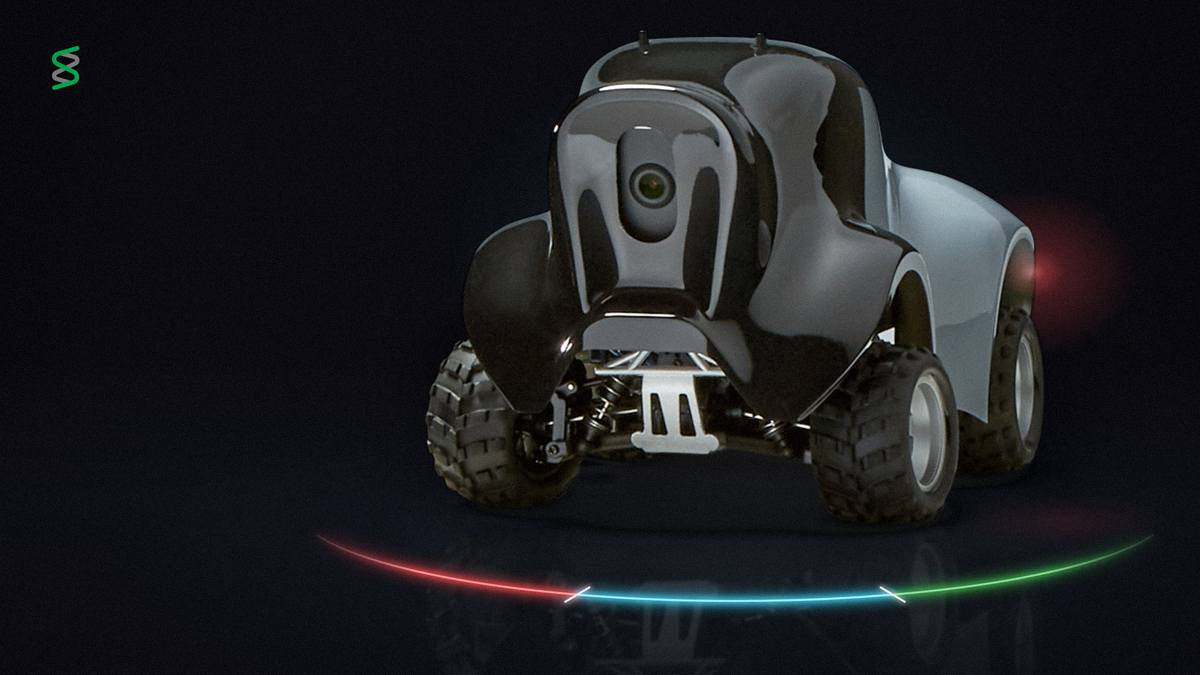
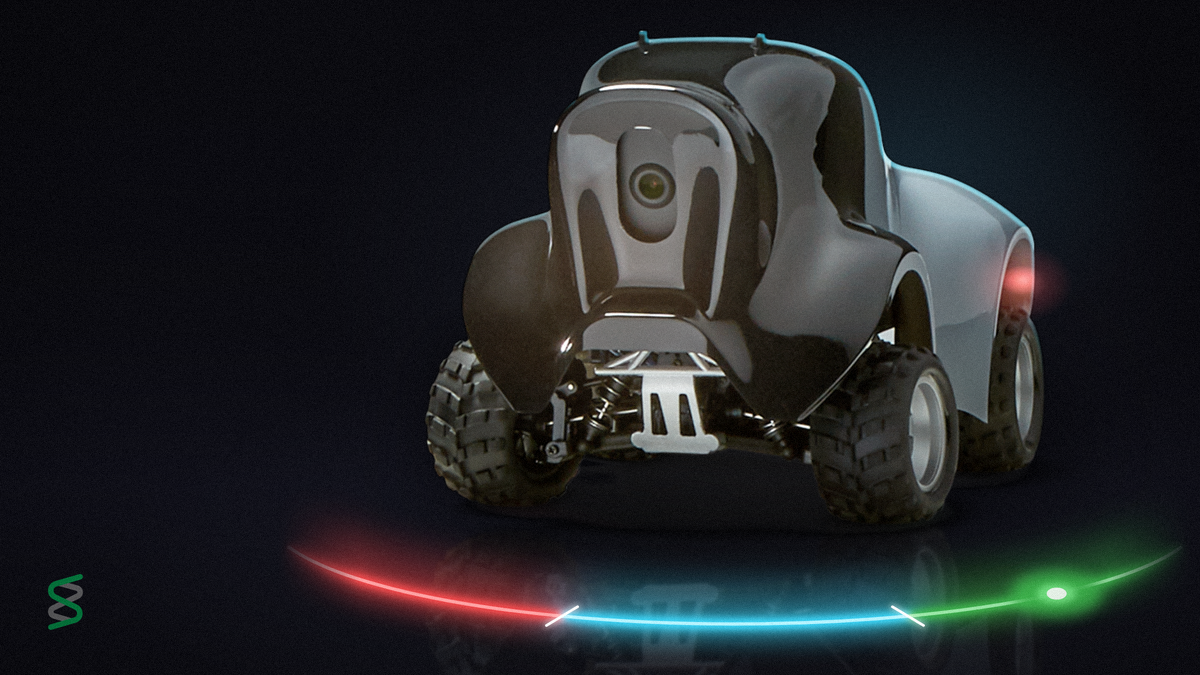
docs(article): Judged cover

diff --git a/docs/article/img/svg/cover-candidates/cover-A2.html b/docs/article/img/svg/cover-candidates/cover-A2.html
@@ -1,0 +1,80 @@
+<!doctype html><html><head><meta charset="utf-8"><title>Cover A2 Judged</title><style>
+/* Cover candidate A, second pass, "Judged". Generated by gen_A2.py; edit there. */
+html,body{margin:0;background:#0b0b10}
+.c{position:relative;width:1200px;height:675px;overflow:hidden;background:#0b0b10}
+.abs{position:absolute}
+.full{left:0;top:0;width:1200px;height:675px}
+/* atmosphere: a soft haze behind the car so the dark is not flat */
+.haze{background:
+  radial-gradient(620px 360px at 760px 250px,rgba(120,150,190,.10),transparent 72%),
+  radial-gradient(380px 260px at 900px 170px,rgba(61,220,255,.09),transparent 70%),
+  radial-gradient(900px 300px at 735px 560px,rgba(110,130,160,.07),transparent 70%),
+  linear-gradient(180deg,#0b0b10 0%,#0c0c12 48%,#101019 72%,#0d0d13 100%)}
+.car,.refl,.shadow,.rim,.key,.under,.lamp{left:313px;top:28px;width:839px;height:585.1px}
+.refl{transform-origin:50% 490.6px;transform:scaleY(-1);opacity:.42;filter:blur(1.4px);
+  -webkit-mask-image:linear-gradient(180deg,transparent 0%,transparent 45%,rgba(0,0,0,.6) 74%,#000 90%)}
+/* light layers clipped to the car's own silhouette */
+.key,.under,.lamp{-webkit-mask-image:url(car-cut.png);-webkit-mask-size:100% 100%;mix-blend-mode:screen}
+.key{background:radial-gradient(330px 260px at 300px 230px,rgba(255,190,140,.22),transparent 75%)}
+.under{background:
+  radial-gradient(200px 120px at 210px 560px,rgba(255,77,79,.20),transparent 75%),
+  radial-gradient(260px 120px at 450px 600px,rgba(61,220,255,.14),transparent 75%),
+  radial-gradient(220px 130px at 690px 560px,rgba(63,185,80,.20),transparent 75%)}
+/* tail light: the lamp sits on the rear corner of the body, its bloom grows from there */
+.lamp{background:radial-gradient(24px 15px at 710px 252px,rgba(255,120,120,1),rgba(255,77,79,.85) 40%,rgba(255,77,79,.0) 100%),
+  radial-gradient(90px 70px at 712px 255px,rgba(255,77,79,.35),transparent 80%)}
+.bloom{left:977px;top:245px;width:96px;height:76px;border-radius:50%;
+  background:radial-gradient(closest-side,rgba(255,110,110,.55),rgba(255,77,79,.20) 45%,transparent 100%);mix-blend-mode:screen}
+.rim{opacity:.7;mix-blend-mode:screen}
+svg{position:absolute;left:0;top:0}
+.mark{left:48px;top:574px;height:56px;opacity:.6}
+</style></head><body><div class="c">
+<div class="abs full haze"></div>
+<img class="abs refl" src="car-cut.png">
+<!-- the probability scale, projected on the floor in front of the car: red 0..0.35, cyan 0.35..0.65, green 0.65..1 -->
+<svg width="1200" height="675" viewBox="0 0 1200 675">
+ <defs>
+  <filter id="spillW" x="-30%" y="-100%" width="160%" height="300%"><feGaussianBlur stdDeviation="30 12"/></filter>
+  <filter id="spill" x="-30%" y="-100%" width="160%" height="300%"><feGaussianBlur stdDeviation="12 5"/></filter>
+  <filter id="glow" x="-20%" y="-60%" width="140%" height="220%"><feGaussianBlur stdDeviation="3.2"/></filter>
+  <filter id="dot" x="-200%" y="-200%" width="500%" height="500%"><feGaussianBlur stdDeviation="7"/></filter>
+  <linearGradient id="fade" x1="278" x2="1192" gradientUnits="userSpaceOnUse"><stop offset="0" stop-color="#fff" stop-opacity="0"/><stop offset=".09" stop-color="#fff"/><stop offset=".91" stop-color="#fff"/><stop offset="1" stop-color="#fff" stop-opacity="0"/></linearGradient>
+  <mask id="m" maskUnits="userSpaceOnUse" x="0" y="0" width="1200" height="675"><rect width="1200" height="675" fill="url(#fade)"/></mask>
+ </defs>
+ <g mask="url(#m)" fill="none">
+  <g filter="url(#spillW)" opacity=".55"><path d="M288.0 546.6 A470.0 112.0 0 0 0 562.0 616.1" stroke="#ff4d4f" stroke-width="34"/>
+<path d="M562.0 616.1 A470.0 112.0 0 0 0 908.0 616.1" stroke="#3ddcff" stroke-width="34"/>
+<path d="M908.0 616.1 A470.0 112.0 0 0 0 1182.0 546.6" stroke="#3fb950" stroke-width="34"/></g>
+  <!-- spill reaching back into the car's reflection -->
+  <g filter="url(#spillW)" opacity=".22" transform="translate(0 -30)"><path d="M288.0 546.6 A470.0 112.0 0 0 0 562.0 616.1" stroke="#ff4d4f" stroke-width="40"/>
+<path d="M562.0 616.1 A470.0 112.0 0 0 0 908.0 616.1" stroke="#3ddcff" stroke-width="40"/>
+<path d="M908.0 616.1 A470.0 112.0 0 0 0 1182.0 546.6" stroke="#3fb950" stroke-width="40"/></g>
+  <g filter="url(#spill)" opacity=".75"><path d="M288.0 546.6 A470.0 112.0 0 0 0 562.0 616.1" stroke="#ff4d4f" stroke-width="12"/>
+<path d="M562.0 616.1 A470.0 112.0 0 0 0 908.0 616.1" stroke="#3ddcff" stroke-width="12"/>
+<path d="M908.0 616.1 A470.0 112.0 0 0 0 1182.0 546.6" stroke="#3fb950" stroke-width="12"/></g>
+  <g filter="url(#glow)"><path d="M288.0 546.6 A470.0 112.0 0 0 0 562.0 616.1" stroke="#ff4d4f" stroke-width="7"/>
+<path d="M562.0 616.1 A470.0 112.0 0 0 0 908.0 616.1" stroke="#3ddcff" stroke-width="7"/>
+<path d="M908.0 616.1 A470.0 112.0 0 0 0 1182.0 546.6" stroke="#3fb950" stroke-width="7"/></g>
+  <g><path d="M288.0 546.6 A470.0 112.0 0 0 0 562.0 616.1" stroke="#ffa3a4" stroke-width="3.2"/>
+<path d="M562.0 616.1 A470.0 112.0 0 0 0 908.0 616.1" stroke="#b4f3ff" stroke-width="3.2"/>
+<path d="M908.0 616.1 A470.0 112.0 0 0 0 1182.0 546.6" stroke="#9be8a8" stroke-width="3.2"/></g>
+ </g>
+ <!-- the two thresholds, crisp, foreshortened on the floor -->
+ <g stroke="#ffffff" stroke-linecap="round" fill="none">
+  <g filter="url(#glow)" stroke-width="5" opacity=".55"><path d="M577.6 606.8 L546.4 625.5"/><path d="M892.4 606.8 L923.6 625.5"/></g>
+  <g stroke-width="2.6"><path d="M577.6 606.8 L546.4 625.5"/><path d="M892.4 606.8 L923.6 625.5"/></g>
+ </g>
+ <!-- the judged move: one marker of light in the green zone -->
+ <ellipse cx="1056.7" cy="593.6" rx="46" ry="22" fill="#3fb950" opacity=".9" filter="url(#dot)"/>
+ <ellipse cx="1056.7" cy="593.6" rx="20" ry="10" fill="#7ff08f" opacity=".8" filter="url(#glow)"/>
+ <ellipse cx="1056.7" cy="593.6" rx="10" ry="6" fill="#f2fff4"/>
+</svg>
+<img class="abs shadow" src="car-shadow.png" style="opacity:.9">
+<img class="abs car" src="car-cut.png">
+<div class="abs key"></div>
+<div class="abs under"></div>
+<img class="abs rim" src="car-rim.png">
+<div class="abs lamp"></div>
+<div class="abs bloom"></div>
+<img class="abs mark" src="strands-mark.svg">
+</div></body></html>

diff --git a/docs/article/img/svg/cover-candidates/gen_A2.py b/docs/article/img/svg/cover-candidates/gen_A2.py
@@ -1,0 +1,95 @@
+"""Generate cover-A2.html (candidate A, second pass). Edit the numbers here, then render A2."""
+import math, pathlib
+CX, CY, RX, RY = 735, 512, 470, 112          # floor ellipse of the scale
+A0, A1 = 162.0, 18.0                          # visible arc, left end to right end (degrees)
+MARK_P = 0.80                                 # marker position on the scale (green zone)
+CAR = dict(left=313, top=28, w=839)           # render scale 0.9
+
+def ang(p): return A0 - (A0 - A1) * p
+def pt(a, k=1.0):
+    t = math.radians(a); return CX + k * RX * math.cos(t), CY + k * RY * math.sin(t)
+def arc(p0, p1, k=1.0):
+    (x0, y0), (x1, y1) = pt(ang(p0), k), pt(ang(p1), k)
+    return f"M{x0:.1f} {y0:.1f} A{RX*k:.1f} {RY*k:.1f} 0 0 0 {x1:.1f} {y1:.1f}"
+segs = [(0, .35, "#ff4d4f", "#ffa3a4"), (.35, .65, "#3ddcff", "#b4f3ff"), (.65, 1, "#3fb950", "#9be8a8")]
+def layer(width, colour_idx, extra=""):
+    return "\n".join(f'<path d="{arc(a, b)}" stroke="{s[colour_idx]}" stroke-width="{width}"{extra}/>' for s in segs for a, b in [s[:2]])
+ticks = []
+for p in (.35, .65):
+    (x0, y0), (x1, y1) = pt(ang(p), .91), pt(ang(p), 1.09)
+    ticks.append(f"M{x0:.1f} {y0:.1f} L{x1:.1f} {y1:.1f}")
+mx, my = pt(ang(MARK_P))
+L, T, W = CAR["left"], CAR["top"], CAR["w"]
+x_left, x_right = pt(A0)[0], pt(A1)[0]
+
+html = f'''<!doctype html><html><head><meta charset="utf-8"><title>Cover A2 Judged</title><style>
+/* Cover candidate A, second pass, "Judged". Generated by gen_A2.py; edit there. */
+html,body{{margin:0;background:#0b0b10}}
+.c{{position:relative;width:1200px;height:675px;overflow:hidden;background:#0b0b10}}
+.abs{{position:absolute}}
+.full{{left:0;top:0;width:1200px;height:675px}}
+/* atmosphere: a soft haze behind the car so the dark is not flat */
+.haze{{background:
+  radial-gradient(620px 360px at 760px 250px,rgba(120,150,190,.10),transparent 72%),
+  radial-gradient(380px 260px at 900px 170px,rgba(61,220,255,.09),transparent 70%),
+  radial-gradient(900px 300px at 735px 560px,rgba(110,130,160,.07),transparent 70%),
+  linear-gradient(180deg,#0b0b10 0%,#0c0c12 48%,#101019 72%,#0d0d13 100%)}}
+.car,.refl,.shadow,.rim,.key,.under,.lamp{{left:{L}px;top:{T}px;width:{W}px;height:{W*650/932:.1f}px}}
+.refl{{transform-origin:50% {545*W/932:.1f}px;transform:scaleY(-1);opacity:.42;filter:blur(1.4px);
+  -webkit-mask-image:linear-gradient(180deg,transparent 0%,transparent 45%,rgba(0,0,0,.6) 74%,#000 90%)}}
+/* light layers clipped to the car's own silhouette */
+.key,.under,.lamp{{-webkit-mask-image:url(car-cut.png);-webkit-mask-size:100% 100%;mix-blend-mode:screen}}
+.key{{background:radial-gradient(330px 260px at 300px 230px,rgba(255,190,140,.22),transparent 75%)}}
+.under{{background:
+  radial-gradient(200px 120px at 210px 560px,rgba(255,77,79,.20),transparent 75%),
+  radial-gradient(260px 120px at 450px 600px,rgba(61,220,255,.14),transparent 75%),
+  radial-gradient(220px 130px at 690px 560px,rgba(63,185,80,.20),transparent 75%)}}
+/* tail light: the lamp sits on the rear corner of the body, its bloom grows from there */
+.lamp{{background:radial-gradient(24px 15px at 710px 252px,rgba(255,120,120,1),rgba(255,77,79,.85) 40%,rgba(255,77,79,.0) 100%),
+  radial-gradient(90px 70px at 712px 255px,rgba(255,77,79,.35),transparent 80%)}}
+.bloom{{left:{L+712*W/839-48:.0f}px;top:{T+255*W/839-38:.0f}px;width:96px;height:76px;border-radius:50%;
+  background:radial-gradient(closest-side,rgba(255,110,110,.55),rgba(255,77,79,.20) 45%,transparent 100%);mix-blend-mode:screen}}
+.rim{{opacity:.7;mix-blend-mode:screen}}
+svg{{position:absolute;left:0;top:0}}
+.mark{{left:48px;top:574px;height:56px;opacity:.6}}
+</style></head><body><div class="c">
+<div class="abs full haze"></div>
+<img class="abs refl" src="car-cut.png">
+<!-- the probability scale, projected on the floor in front of the car: red 0..0.35, cyan 0.35..0.65, green 0.65..1 -->
+<svg width="1200" height="675" viewBox="0 0 1200 675">
+ <defs>
+  <filter id="spillW" x="-30%" y="-100%" width="160%" height="300%"><feGaussianBlur stdDeviation="30 12"/></filter>
+  <filter id="spill" x="-30%" y="-100%" width="160%" height="300%"><feGaussianBlur stdDeviation="12 5"/></filter>
+  <filter id="glow" x="-20%" y="-60%" width="140%" height="220%"><feGaussianBlur stdDeviation="3.2"/></filter>
+  <filter id="dot" x="-200%" y="-200%" width="500%" height="500%"><feGaussianBlur stdDeviation="7"/></filter>
+  <linearGradient id="fade" x1="{x_left-10:.0f}" x2="{x_right+10:.0f}" gradientUnits="userSpaceOnUse"><stop offset="0" stop-color="#fff" stop-opacity="0"/><stop offset=".09" stop-color="#fff"/><stop offset=".91" stop-color="#fff"/><stop offset="1" stop-color="#fff" stop-opacity="0"/></linearGradient>
+  <mask id="m" maskUnits="userSpaceOnUse" x="0" y="0" width="1200" height="675"><rect width="1200" height="675" fill="url(#fade)"/></mask>
+ </defs>
+ <g mask="url(#m)" fill="none">
+  <g filter="url(#spillW)" opacity=".55">{layer(34, 2)}</g>
+  <!-- spill reaching back into the car's reflection -->
+  <g filter="url(#spillW)" opacity=".22" transform="translate(0 -30)">{layer(40, 2)}</g>
+  <g filter="url(#spill)" opacity=".75">{layer(12, 2)}</g>
+  <g filter="url(#glow)">{layer(7, 2)}</g>
+  <g>{layer(3.2, 3)}</g>
+ </g>
+ <!-- the two thresholds, crisp, foreshortened on the floor -->
+ <g stroke="#ffffff" stroke-linecap="round" fill="none">
+  <g filter="url(#glow)" stroke-width="5" opacity=".55"><path d="{ticks[0]}"/><path d="{ticks[1]}"/></g>
+  <g stroke-width="2.6"><path d="{ticks[0]}"/><path d="{ticks[1]}"/></g>
+ </g>
+ <!-- the judged move: one marker of light in the green zone -->
+ <ellipse cx="{mx:.1f}" cy="{my:.1f}" rx="46" ry="22" fill="#3fb950" opacity=".9" filter="url(#dot)"/>
+ <ellipse cx="{mx:.1f}" cy="{my:.1f}" rx="20" ry="10" fill="#7ff08f" opacity=".8" filter="url(#glow)"/>
+ <ellipse cx="{mx:.1f}" cy="{my:.1f}" rx="10" ry="6" fill="#f2fff4"/>
+</svg>
+<img class="abs shadow" src="car-shadow.png" style="opacity:.9">
+<img class="abs car" src="car-cut.png">
+<div class="abs key"></div>
+<div class="abs under"></div>
+<img class="abs rim" src="car-rim.png">
+<div class="abs lamp"></div>
+<div class="abs bloom"></div>
+<img class="abs mark" src="strands-mark.svg">
+</div></body></html>'''
+pathlib.Path(__file__).with_name("cover-A2.html").write_text(html)

diff --git a/docs/article/img/MANIFEST.md b/docs/article/img/MANIFEST.md
@@ -53,3 +53,5 @@ afterwards; ports 8765 and 8111 were never touched.
 | `cover.png` (v3, "Seen") | The car facing the viewer; a cyan beam from its camera sweeps the floor and turns red on a drawn figure. No text. 1200x675. | Made for this article from the official render and the Pit Wall stick figure; source `svg/cover-candidates/cover-B.html`. |
 | `cover-v2.png` | Previous cover (car on a grid with Strands ribbons). | Kept for reference. |
 | `cover-options/cover-judged.png`, `cover-options/cover-strands.png` | The two other v3 candidates. | Sources in `svg/cover-candidates/`. |
+| `cover.png` (v3 final, "Judged") | The car lit from front and above, a red tail light, a floor-projected probability scale in red, cyan and green with ticks at 0.35 and 0.65 and a green marker in the proceed zone. No text. 1200x675. | Made for this article from the official render; source `svg/cover-candidates/gen_A2.py` and `cover-A2.html`. |
+| `cover-options/cover-seen.png` | The "Seen" candidate, previously the cover. | Source `svg/cover-candidates/cover-B.html`. |
